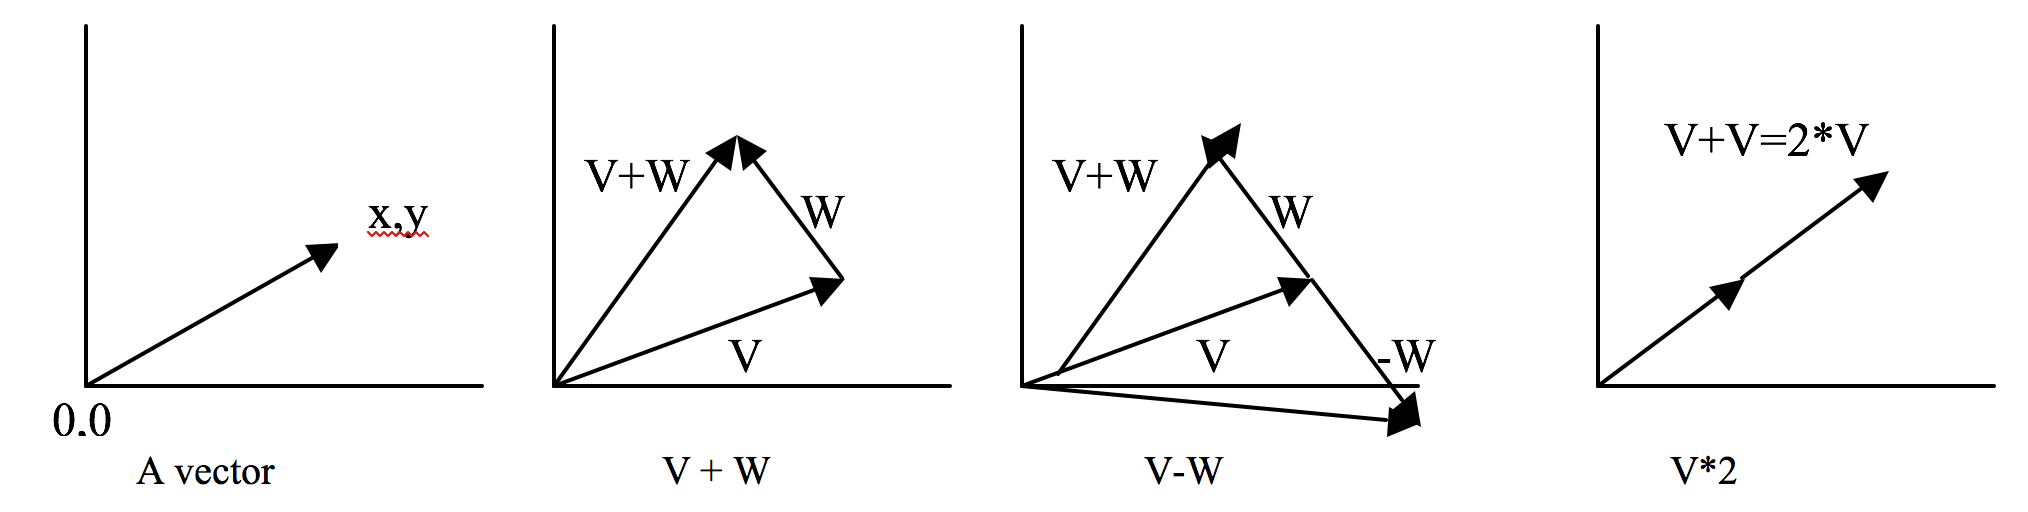
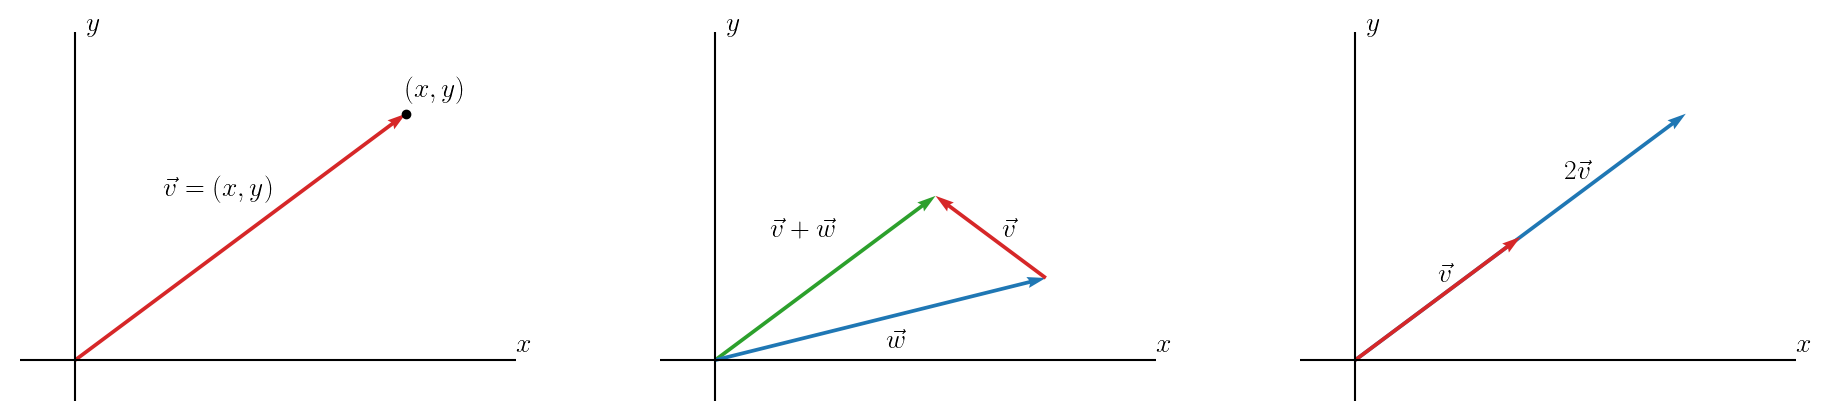
new vector image test

diff --git a/vectors.py b/vectors.py
@@ -1,0 +1,23 @@
+import matplotlib
+import matplotlib.pyplot as plt 
+
+matplotlib.rcParams['text.usetex'] = True
+
+fig, ax = plt.subplots()
+ax.set_xlim(-0.5, 4)
+ax.set_ylim(-0.5, 4)
+ax.set_axis_off()
+
+ax.quiver(0, 0, 3, 3, scale_units='xy', angles='xy', scale=1, color='C0')
+ax.quiver(0, 0, 1.5, 1.5, scale_units='xy', angles='xy', scale=1, color='C3')
+
+ax.text(0.75, 0.75 + 0.2, '$\\vec{v}$', fontsize=20)
+ax.text(2 - 0.1, 2 + 0.2, '$2\\vec{v}$', fontsize=20)
+
+ax.axvline(color='black', linewidth=1.5)
+ax.axhline(color='black', linewidth=1.5)
+
+ax.text(0.1, 4, '$y$', fontsize=20)
+ax.text(4, 0.1, '$x$', fontsize=20)
+
+plt.show()

diff --git a/Labs/lab09.md b/Labs/lab09.md
@@ -26,7 +26,9 @@ alt="(0, 0)">, with the head of the vector meeting at coordinates <img src=
 "https://render.githubusercontent.com/render/math?math=%5Ctextstyle+%28x%2C+y%29" 
 alt="(x, y)">.
 
-![](../.assets/images/vectors.png)
+<div align="center">
+    <img src="../.assets/images/vectors.png" width="100%">
+</div>
 
 Below are some of the operations that can be performed on a vector, all of which you'll ultimately implement for your `MathVector` `struct`.
 
